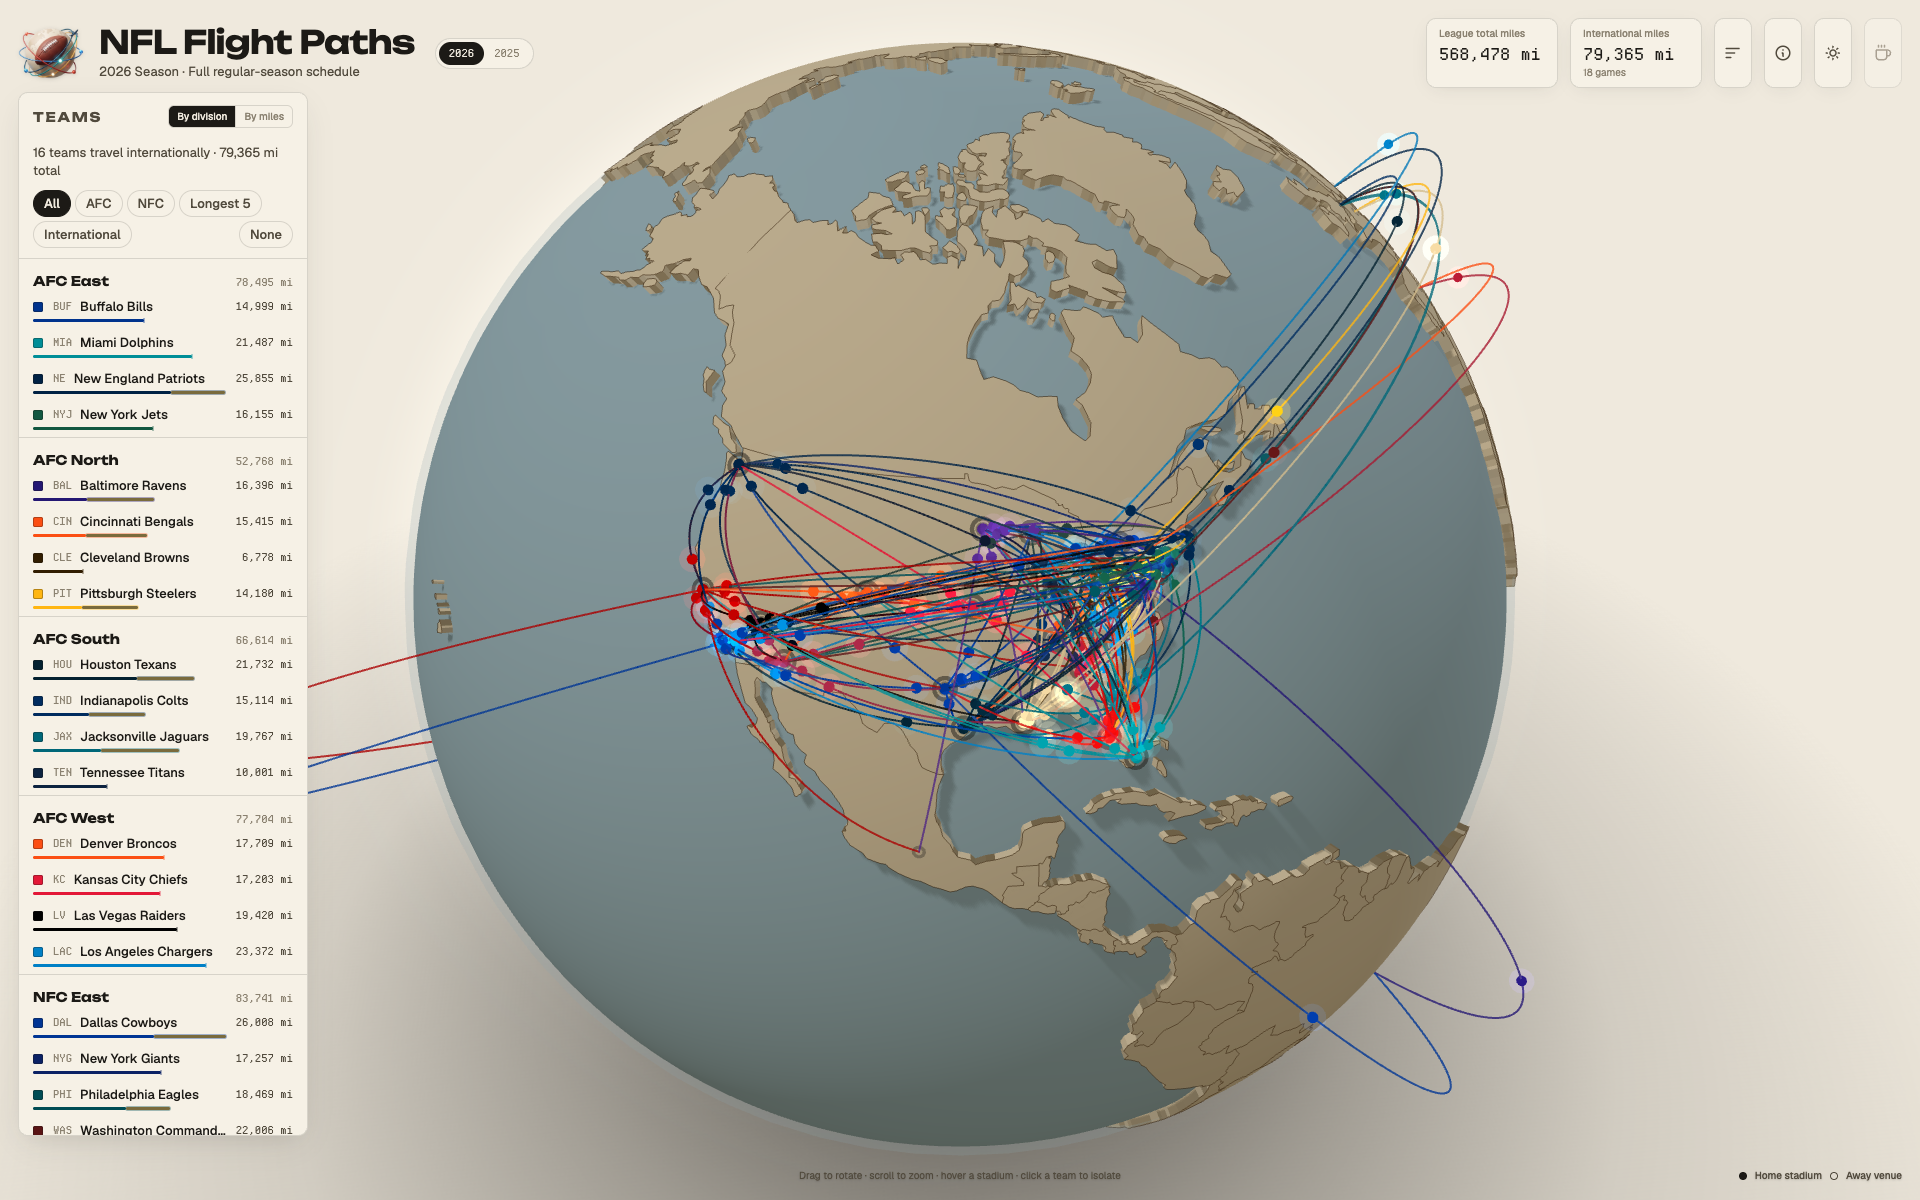
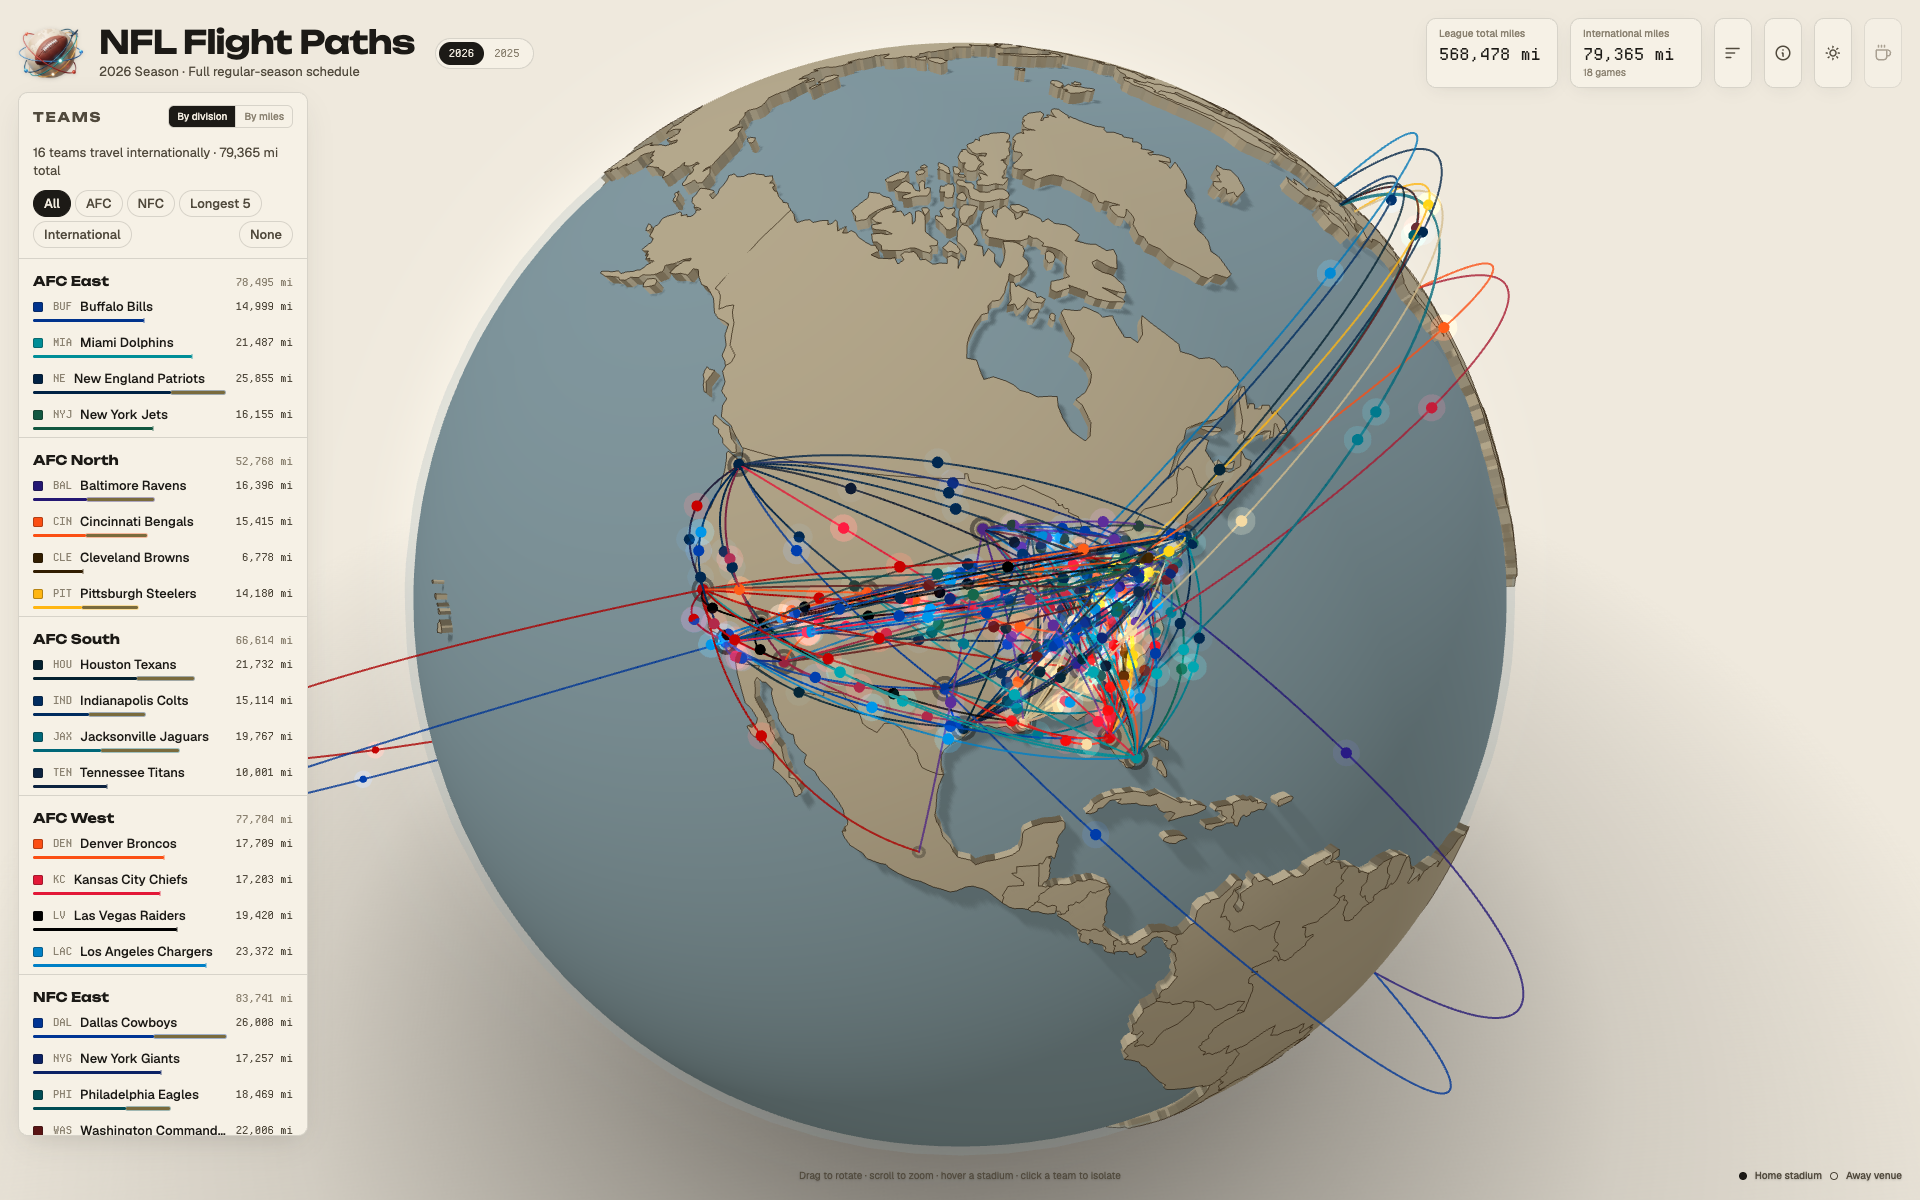
Tune lighting + country-line ink to amplify the sectional thesis
Follow-up to the sectional palette landing. The previous commit kept
lighting and country-line values from the warm-cream production palette
so the comparison stayed tight; now that sectional is the chosen
direction those layers can move with it instead of fighting it.

Lighting:
  ambientSky:    0xffffff  →  0xf0f6fa   (warm white → cool overhead daylight)
  ambientGround: 0xb8b09c  →  0xa8a8a4   (warm beige → neutral grey bounce)
  keyColor:      unchanged (stays warm-white so it reads as "sun on the chart"
                 against the cool diffuse fill)

The cool ambient lets the sphere's intrinsic blue-grey carry rather than
being washed by warm rebound; the neutral ground bounce stops the warm
cream backdrop from feeding back onto the sphere.

Country-line ink:
  countryLineColor:   0x3d2a14 → 0x2d1f0e (slightly darker sectional brown)
  countryLineOpacity: 0.6      → 0.7     (more authoritative)

Borders now read as proper sectional cartographic ink rather than soft
decorative outline.

Hero shots (01-hero, 02-atlantic, 03-pacific) re-captured to reflect
the final state.

diff --git a/src/themes.js b/src/themes.js
@@ -12,8 +12,11 @@ export const THEMES = {
     sceneBg: 0xefe9dd,
     sphereColor: 0xa5c0c8,
     reliefColor: 0xe6d4b0,
-    countryLineColor: 0x3d2a14,
-    countryLineOpacity: 0.6,
+    // Country line ink pushed toward proper sectional-chart authority:
+    // slightly darker brown, slightly higher opacity, so borders read as
+    // cartographic ink rather than decorative outline.
+    countryLineColor: 0x2d1f0e,
+    countryLineOpacity: 0.7,
     limbColor: 0x8aa0a8,
     limbOpacity: 0.22,
     // Cool atmospheric halo at very low intensity. The sectional ocean
@@ -22,8 +25,13 @@ export const THEMES = {
     glowInnerColor: 0xf0f5f8,
     glowOuterColor: 0xb8c8d0,
     glowIntensity: 0.2,
-    ambientSky: 0xffffff,
-    ambientGround: 0xb8b09c,
+    // Lighting tuned for the sectional palette: cool overhead ambient lets
+    // the sphere's intrinsic blue-grey carry, neutral-grey ground bounce
+    // stops the warm cream rebound from washing the water. The key light
+    // stays warm-white so it reads as "sun on the chart" against the cool
+    // diffuse fill.
+    ambientSky: 0xf0f6fa,
+    ambientGround: 0xa8a8a4,
     ambientIntensity: 1.05,
     keyColor: 0xffffff,
     keyIntensity: 0.95,
